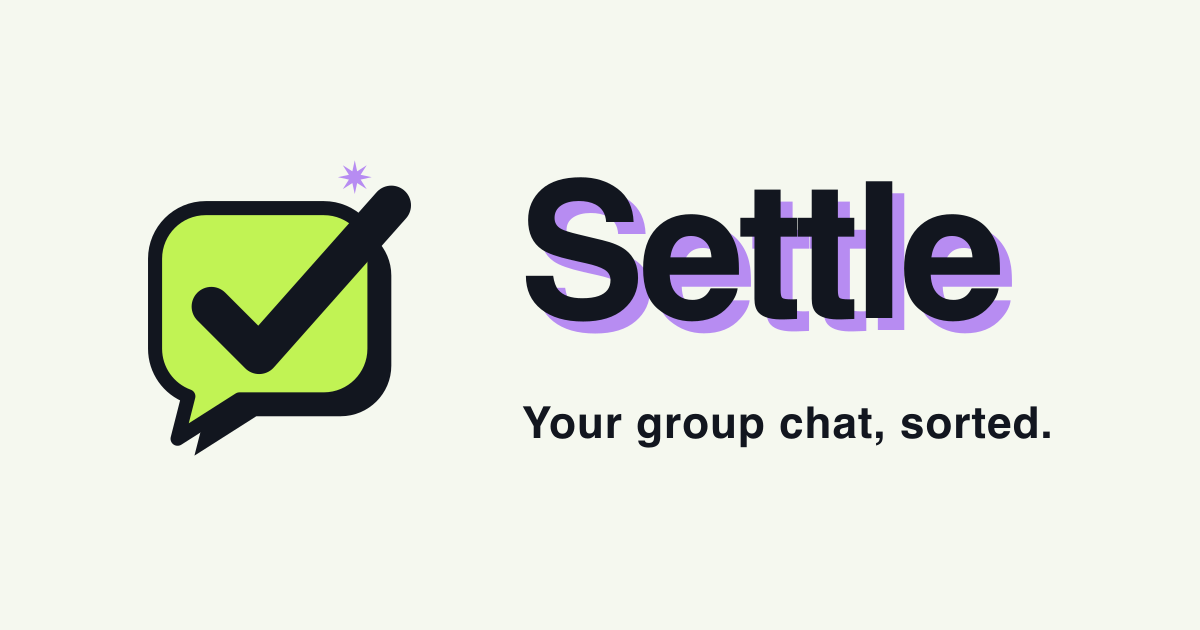
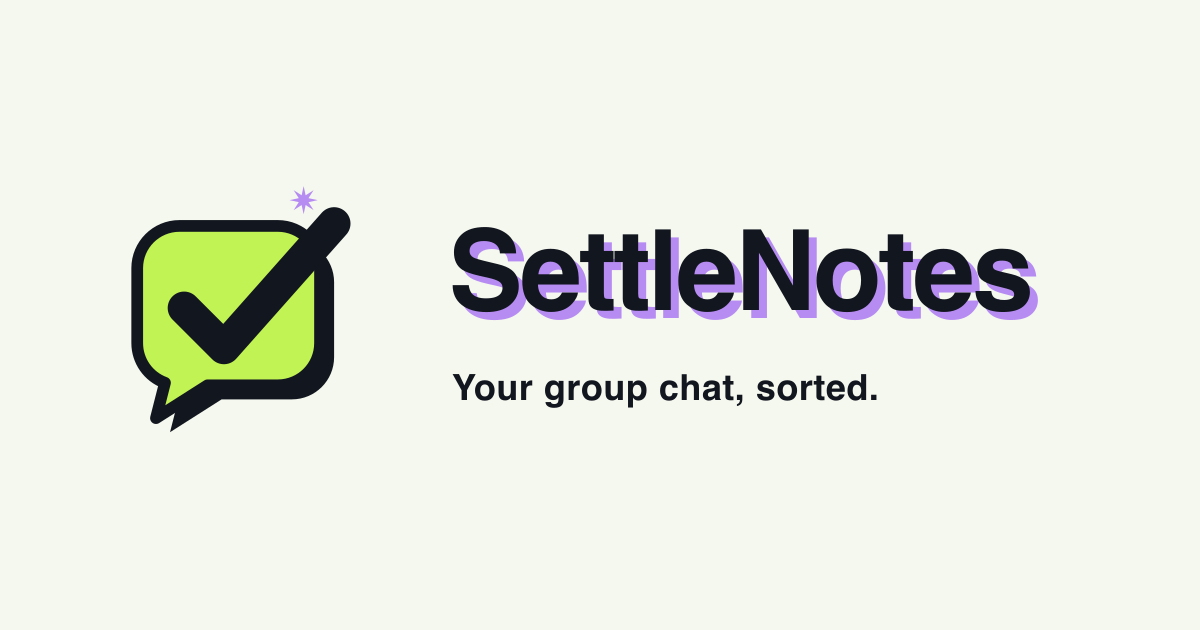
Fix SettleNotes website link previews

Changed region(s): [[0.37, 0.2714, 0.8633, 0.5429], [0.0925, 0.2714, 0.3392, 0.7238], [0.37, 0.573, 0.8633, 0.7238]]

diff --git a/tests/seo/metadata.test.ts b/tests/seo/metadata.test.ts
@@ -48,11 +48,11 @@ describe("root metadata", () => {
   });
 
   test("keeps the title default and template", () => {
-    expect(meta.title).toEqual({ default: "Settle", template: "%s | Settle" });
+    expect(meta.title).toEqual({ default: "SettleNotes", template: "%s | SettleNotes" });
   });
 
   test("application name and the honest description", () => {
-    expect(meta.applicationName).toBe("Settle");
+    expect(meta.applicationName).toBe("SettleNotes");
     expect(meta.description).toBeTruthy();
     expect(meta.description).not.toMatch(DASH);
   });
@@ -72,11 +72,11 @@ describe("root metadata", () => {
 
   test("open graph: website card, en_SG, share image resolves absolute", () => {
     expect(og.type).toBe("website");
-    expect(og.siteName).toBe("Settle");
+    expect(og.siteName).toBe("SettleNotes");
     expect(og.locale).toBe("en_SG");
     const image = ogImages(og)[0]!;
     expect(new URL(image.url, meta.metadataBase as URL).toString()).toBe(
-      "https://settlenotes.com/opengraph-image.png",
+      "https://settlenotes.com/opengraph-image.png?v=settlenotes-1",
     );
     expect(image.width).toBe(1200);
     expect(image.height).toBe(630);
@@ -90,7 +90,7 @@ describe("root metadata", () => {
     expect(twitter.description).toBeTruthy();
     const image = twitter.images![0]!;
     expect(new URL(image, meta.metadataBase as URL).toString()).toBe(
-      "https://settlenotes.com/opengraph-image.png",
+      "https://settlenotes.com/opengraph-image.png?v=settlenotes-1",
     );
   });
 
@@ -116,7 +116,7 @@ describe("landing metadata", () => {
 
   test("title stays the plain absolute title", () => {
     expect(meta.title).toEqual({ absolute: LANDING_TITLE });
-    expect(LANDING_TITLE).toBe("Settle: your group chat, sorted");
+    expect(LANDING_TITLE).toBe("SettleNotes: your group chat, sorted");
   });
 
   test("the landing page carries the canonical", () => {
@@ -133,7 +133,7 @@ describe("landing metadata", () => {
 
   test("full open graph object, because pages replace instead of merge", () => {
     expect(og.type).toBe("website");
-    expect(og.siteName).toBe("Settle");
+    expect(og.siteName).toBe("SettleNotes");
     expect(og.locale).toBe("en_SG");
     expect(og.title).toBe(LANDING_TITLE);
     expect(og.description).toBe(LANDING_DESCRIPTION);
@@ -142,7 +142,7 @@ describe("landing metadata", () => {
       "https://settlenotes.com/",
     );
     const image = ogImages(og)[0]!;
-    expect(image.url).toBe("/opengraph-image.png");
+    expect(image.url).toBe("/opengraph-image.png?v=settlenotes-1");
     expect(image.width).toBe(1200);
     expect(image.height).toBe(630);
     expect(image.alt).toBeTruthy();
@@ -152,6 +152,6 @@ describe("landing metadata", () => {
     expect(twitter.card).toBe("summary_large_image");
     expect(twitter.title).toBe(LANDING_TITLE);
     expect(twitter.description).toBe(LANDING_DESCRIPTION);
-    expect(twitter.images![0]).toBe("/opengraph-image.png");
+    expect(twitter.images![0]).toBe("/opengraph-image.png?v=settlenotes-1");
   });
 });

diff --git a/scripts/build-brand.ts b/scripts/build-brand.ts
@@ -82,16 +82,16 @@ async function buildOgImage(): Promise<void> {
     `<svg xmlns="http://www.w3.org/2000/svg" width="${width}" height="${height}">` +
       `<rect width="${width}" height="${height}" fill="${PAPER}"/>` +
       // Shadow copy first, ink text on top: a hard offset, no blur.
-      `<text x="530" y="330" font-family="sans-serif" font-weight="800" font-size="190" letter-spacing="-6" fill="${LILAC}">Settle</text>` +
-      `<text x="518" y="318" font-family="sans-serif" font-weight="800" font-size="190" letter-spacing="-6" fill="${INK}">Settle</text>` +
-      `<text x="522" y="438" font-family="sans-serif" font-weight="600" font-size="44" letter-spacing="1" fill="${INK}">Your group chat, sorted.</text>` +
+      `<text x="456" y="318" font-family="sans-serif" font-weight="800" font-size="112" letter-spacing="-3" fill="${LILAC}">SettleNotes</text>` +
+      `<text x="448" y="310" font-family="sans-serif" font-weight="800" font-size="112" letter-spacing="-3" fill="${INK}">SettleNotes</text>` +
+      `<text x="452" y="400" font-family="sans-serif" font-weight="600" font-size="36" letter-spacing="0.5" fill="${INK}">Your group chat, sorted.</text>` +
       `</svg>`,
   );
-  const markSize = 360;
+  const markSize = 300;
   const mark = await renderSvg(MARK_SVG, markSize);
   await sharp(textLayer)
     .composite([
-      { input: mark, top: Math.round((height - markSize) / 2), left: 96 },
+      { input: mark, top: Math.round((height - markSize) / 2), left: 88 },
     ])
     .png()
     .toFile(join(ROOT, "public/opengraph-image.png"));

diff --git a/lib/seo/site.ts b/lib/seo/site.ts
@@ -3,16 +3,16 @@
 // reads) and this module turns it into the one canonical origin every tag on
 // the site shares, or the production fallback when the value is useless.
 
-export const SITE_NAME = "Settle";
+export const SITE_NAME = "SettleNotes";
 export const SITE_TAGLINE = "Your group chat, sorted.";
 export const DEFAULT_DESCRIPTION =
-  "Forward your group chat, PDFs and math photos to a Telegram bot. Settle turns them into one task list and starts each task for you.";
+  "Forward your group chat, PDFs and math photos to a Telegram bot. SettleNotes turns them into one task list and starts each task for you.";
 
-export const OG_IMAGE_PATH = "/opengraph-image.png";
+export const OG_IMAGE_PATH = "/opengraph-image.png?v=settlenotes-1";
 export const OG_IMAGE_WIDTH = 1200;
 export const OG_IMAGE_HEIGHT = 630;
 export const OG_IMAGE_ALT =
-  "The Settle wordmark beside the lime speech bubble mark, with the tagline Your group chat, sorted.";
+  "The SettleNotes wordmark beside the lime speech bubble mark, with the tagline Your group chat, sorted.";
 
 const FALLBACK_ORIGIN = "https://settlenotes.com";
 const LOCAL_HOSTS = new Set(["localhost", "127.0.0.1", "0.0.0.0", "[::1]"]);

diff --git a/tests/seo/jsonld.test.tsx b/tests/seo/jsonld.test.tsx
@@ -25,14 +25,14 @@ describe("buildLandingJsonld", () => {
     const [org, website] = graph();
     expect(org!["url"]).toBe("https://settlenotes.com/");
     expect(org!["logo"]).toBe("https://settlenotes.com/brand/settle-icon-512.png");
-    expect(org!["name"]).toBe("Settle");
+    expect(org!["name"]).toBe("SettleNotes");
     expect(website!["url"]).toBe("https://settlenotes.com/");
-    expect(website!["name"]).toBe("Settle");
+    expect(website!["name"]).toBe("SettleNotes");
   });
 
   test("the app offer is the free plan only, nothing invented", () => {
     const app = graph()[2]!;
-    expect(app["name"]).toBe("Settle");
+    expect(app["name"]).toBe("SettleNotes");
     expect(app["applicationCategory"]).toBe("EducationalApplication");
     expect(app["operatingSystem"]).toBe("Telegram");
     expect(app["offers"]).toEqual({ "@type": "Offer", price: "0", priceCurrency: "SGD" });

diff --git a/lib/seo/metadata.ts b/lib/seo/metadata.ts
@@ -11,9 +11,9 @@ import {
   siteUrl,
 } from "./site";
 
-export const LANDING_TITLE = "Settle: your group chat, sorted";
+export const LANDING_TITLE = "SettleNotes: your group chat, sorted";
 export const LANDING_DESCRIPTION =
-  "Forward your group chat, PDFs and math photos to the Settle Telegram bot. Settle turns deadlines into one task list and does the first step. Free to start.";
+  "Forward group chats, PDFs and math photos to the SettleNotes Telegram bot. Get one task list with a useful first step ready for each task. Free to start.";
 
 export const GUIDES_INDEX_TITLE = "Study guides";
 export const GUIDES_INDEX_DESCRIPTION =

diff --git a/tests/guides/jsonld.test.ts b/tests/guides/jsonld.test.ts
@@ -46,10 +46,10 @@ describe("buildGuideJsonld", () => {
     expect(serialized).not.toMatch(DASH);
   });
 
-  test("author and publisher are the Settle organisation with url and logo", () => {
+  test("author and publisher are the SettleNotes organisation with url and logo", () => {
     const expected = {
       "@type": "Organization",
-      name: "Settle",
+      name: "SettleNotes",
       url: "https://settlenotes.com/",
       logo: "https://settlenotes.com/brand/settle-icon-512.png",
     };
